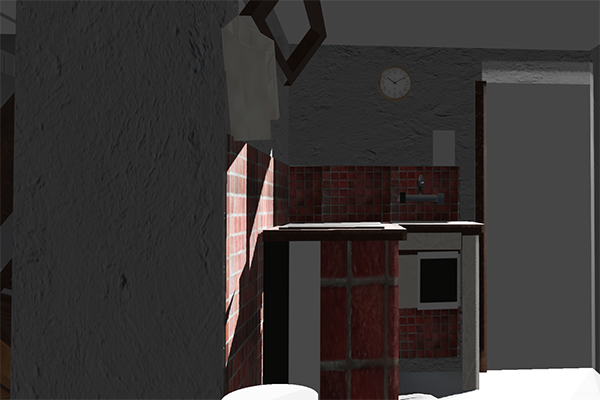
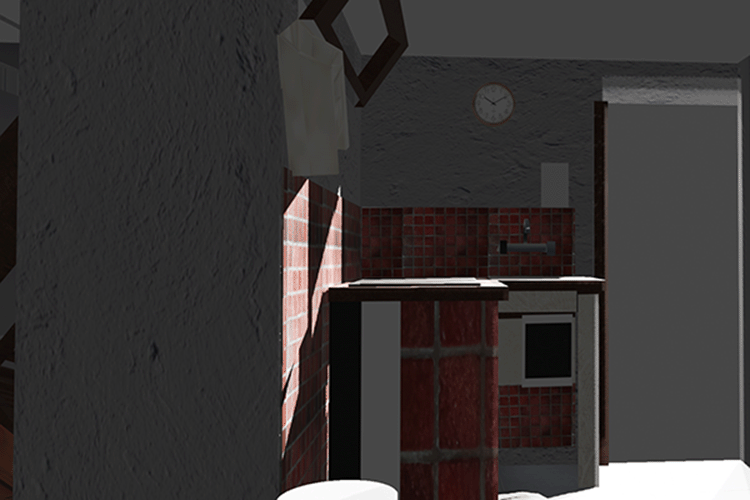
worsened the control scheme
*added more views
*added pos 0 view
*adjusted image size to fit eyeMovement (adjustements to be made)

diff --git a/sketch.js b/sketch.js
@@ -46,23 +46,31 @@ let door3 = {
   //each have a view for the 4 cardinals + floor
   //pos1north is default/
 
+let pos0 = undefined;
+
 let pos1down = undefined;
-let  pos1north = undefined;
+let pos1north = undefined;
 let pos1east = undefined;
 let pos1west = undefined;
 
+
 let pos2down = undefined;
 let pos2north = undefined;
+let pos2northnorth = undefined;
 let pos2east = undefined;
+let pos2west = undefined;
 let pos2south = undefined;
 
 let pos3down = undefined;
 let pos3east = undefined;
+let pos3north = undefined;
 let pos3west = undefined;
 let pos3south = undefined;
 
 function preload(){
   
+  pos0 = loadImage("assets/pos0.png");
+
   pos1down = loadImage("assets/pos1down.png");
  pos1north = loadImage("assets/pos1north.png");
  pos1east = loadImage("assets/pos1east.png");
@@ -71,13 +79,16 @@ function preload(){
  //pos2north is default
 pos2down = loadImage("assets/pos2down.png");
  pos2north = loadImage("assets/pos2north.png");
+ pos2northnorth = loadImage("assets/pos2northnorth.png");
  pos2east = loadImage("assets/pos2east.png");
+ pos2west = loadImage("assets/pos2west.png");
  pos2south = loadImage("assets/pos2south.png");
 
  //pos3east is default
 pos3down = loadImage("assets/pos3down.png");
 pos3east = loadImage("assets/pos3east.png");
 pos3west = loadImage("assets/pos3west.png");
+pos3north = loadImage("assets/pos3north.png");
 pos3south = loadImage("assets/pos3south.png");
 }
 
@@ -133,69 +144,97 @@ function draw() {
 
 if (state === "room1"){
   
-  
-  //starts pos1
+  //starts pos0
+
+  if (position === '0'){
+//display view when pos0
+image(pos0, -150+eyeMovementX, -100+eyeMovementY)
+//when user press f switch to pos1 (will change letter once it doesn't mess up the flow)
+    if (position === '0' && keyIsPressed === true && key === 'f')
+      position = '1'
+  }
   //starts with north view
   if(position === '1'){
     
-  image(pos1north, eyeMovementX, eyeMovementY)
+  image(pos1north, -150+eyeMovementX, -100+eyeMovementY)
     //user presses w = west view
     if (keyIsPressed === true && key === 'w'){
-      image(pos1west, eyeMovementX, eyeMovementY)
+      image(pos1west, -150+eyeMovementX, -100+eyeMovementY)
     }
     
         //user presses e = east view
     if (keyIsPressed === true && key === 'e'){
-      image(pos1east, eyeMovementX, eyeMovementY)
+      image(pos1east, -150+eyeMovementX, -100+eyeMovementY)
     }
     
             //user presses d = down view
     if (keyIsPressed === true && key === 'd'){
-      image(pos1down, eyeMovementX, eyeMovementY)
+      image(pos1down, -150+eyeMovementX, -100+eyeMovementY)
     }
       
-            //user presses n key = move forward north to position2
+            //user presses f key = move forward north to position2
     if (position === '1' && keyIsPressed === true && key === 'n'){
       position = '2'
     }
   }
   
   if(position === '2'){
-    image(pos2north, eyeMovementX, eyeMovementY)
+    image(pos2north, -150+eyeMovementX, -100+eyeMovementY)
     
     //user presses d = down view
     if (keyIsPressed === true && key === 'd'){
-      image(pos2down, eyeMovementX, eyeMovementY)
+      image(pos2down, -150+eyeMovementX, -100+eyeMovementY)
     }
+
+   //user presses n = northnorth view
+    if (keyIsPressed === true && key === 'n'){
+    image(pos2northnorth, -150+eyeMovementX, -100+eyeMovementY)
+    }
+
+    //user presses e = east view
+    if (keyIsPressed === true && key === 'e'){
+      image(pos2east, -150+eyeMovementX, -100+eyeMovementY)
+    }    
+
+    //user presses w = west view
+    if (keyIsPressed === true && key === 'w'){
+      image(pos2west, -150+eyeMovementX, -100+eyeMovementY)
+    }
+
       //user presses s key = south view
     if (keyIsPressed === true && key === 's'){
-      image(pos2south, eyeMovementX, eyeMovementY)
+      image(pos2south, -150+eyeMovementX, -100+eyeMovementY)
     }
     
     }
     
-            //user presses e key = move to position3 east
-    if (position === '2' && keyIsPressed === true && key === 'e'){
+            //user presses f key = move to position3 east
+    if (position === '2' && keyIsPressed === true && key === 'f'){
       position = '3';
     }
   }
   
   if(position === '3'){
-    image(pos3east, eyeMovementX, eyeMovementY)
+    image(pos3east, -150+eyeMovementX, -100+eyeMovementY)
     
           //user presses s key = south view
     if (keyIsPressed === true && key === 's'){
-      image(pos3south, eyeMovementX, eyeMovementY)
+      image(pos3south, -150+eyeMovementX, -100+eyeMovementY)
     }
     
+    //user presses n key = north view
+      if (keyIsPressed === true && key === 'n'){
+      image(pos3north, -150+eyeMovementX, -100+eyeMovementY)
+      }
+          
           //user presses d = down view
     if (keyIsPressed === true && key === 'd'){
-      image(pos3down, eyeMovementX, eyeMovementY)
+      image(pos3down, -150+eyeMovementX, -100+eyeMovementY)
     }
     
           //user presses w key = west view
     if (keyIsPressed === true && key === 'w'){
-      image(pos3west, eyeMovementX, eyeMovementY)
+      image(pos3west, -150+eyeMovementX, -100+eyeMovementY)
     }
   }
   
@@ -223,7 +262,6 @@ function mouseWheel(){
     
     if (door1.x < -15 && door1.width >width+15){
       state = 'room1';
-      position = '1'
     }
     //state changes to room1 once we've fully entered/
   }
